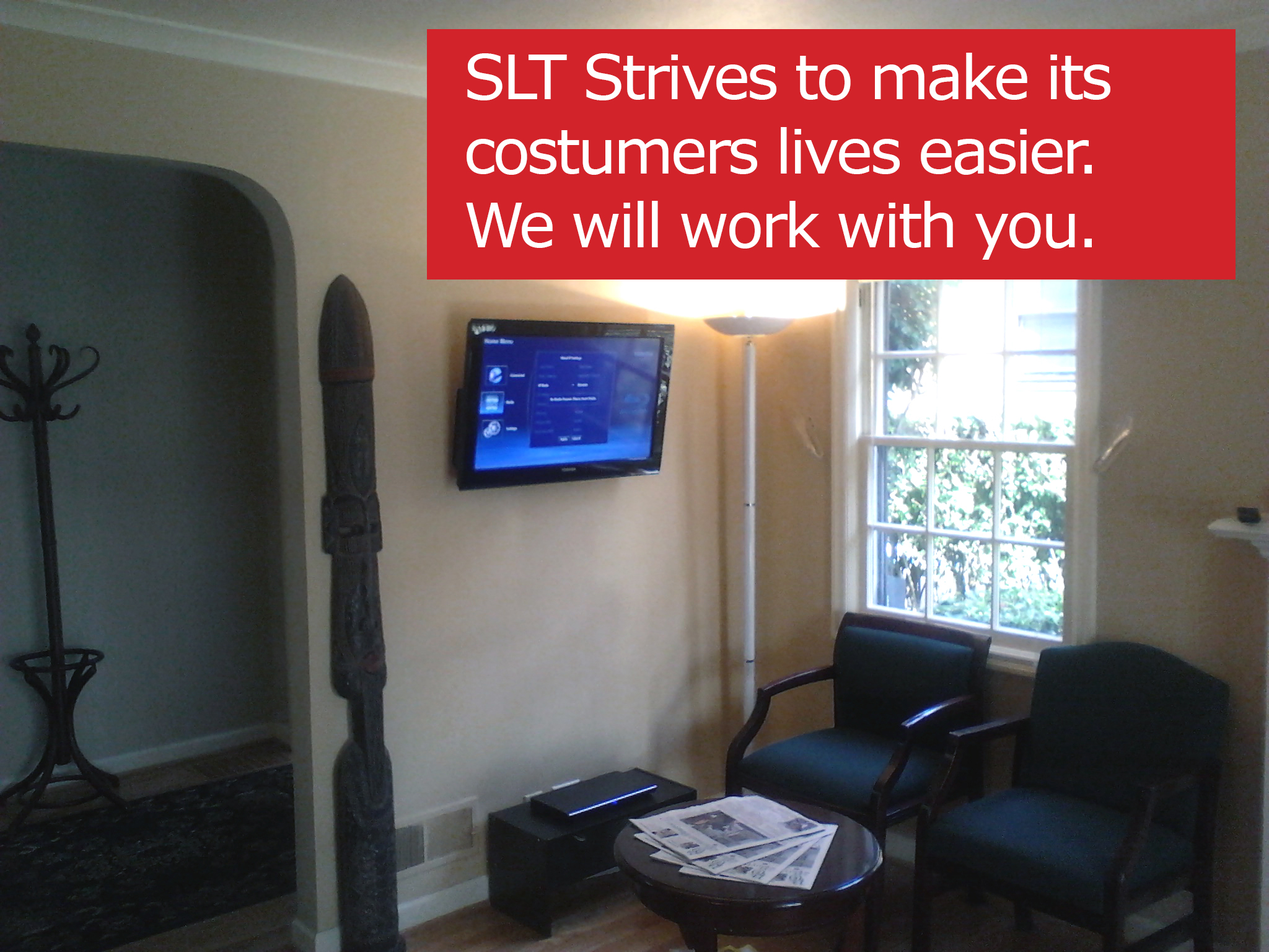
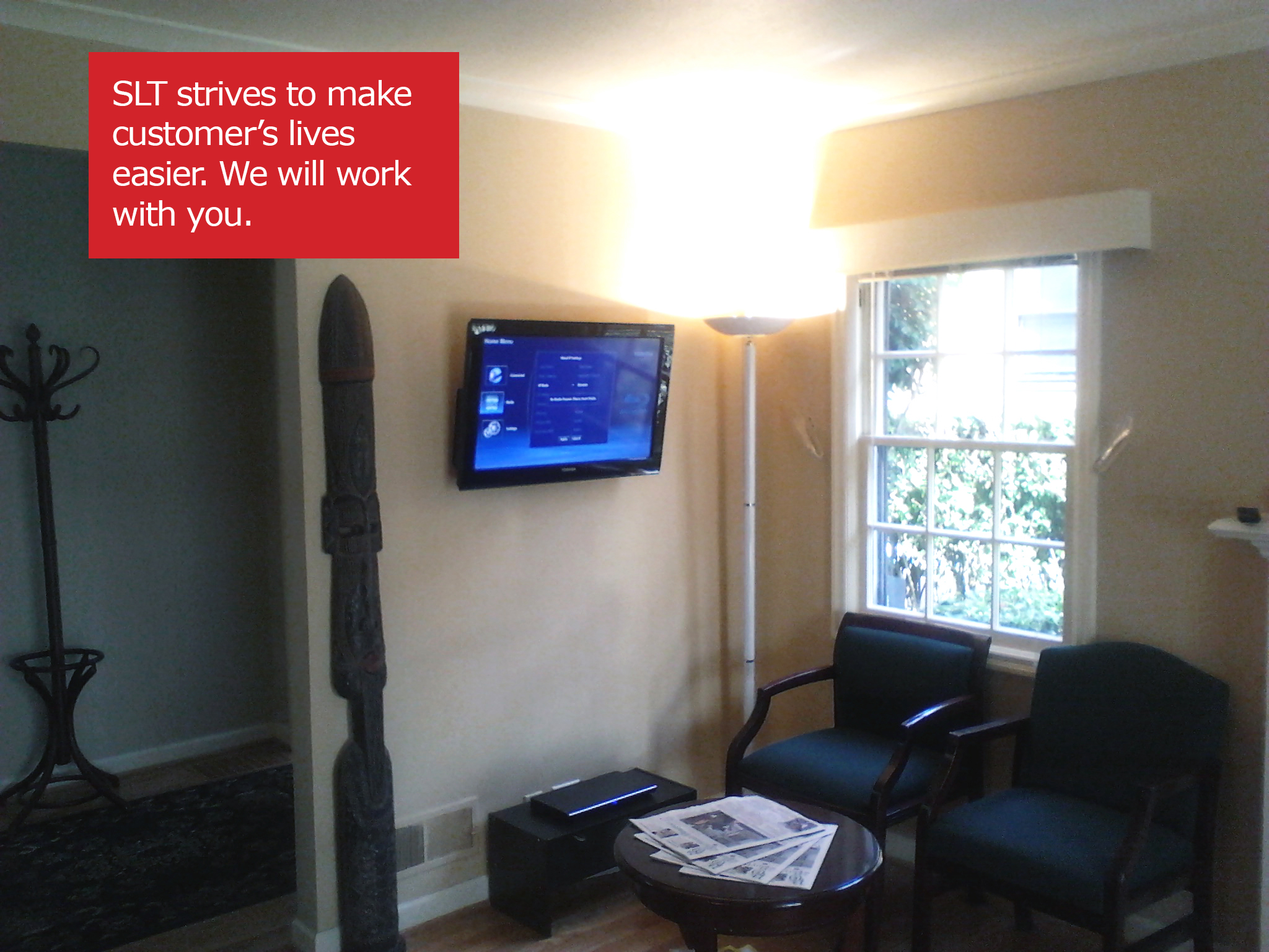
margins and picture update

Changed region(s): [[0.0625, 0.0312, 1.0, 0.3125]]

diff --git a/styles/style.css b/styles/style.css
@@ -38,7 +38,7 @@ H3 {
 	font-size: 2.15em;
 	line-height: 1.36em;
 	color: #d2232a;
-	letter-spacing: .07em;
+	letter-spacing: .04em;
 	}
 
 H4 {
@@ -891,14 +891,14 @@ a.nav:active {text-decoration:none;}
 	margin-left: 40px;
 	color: white;
 	
-	letter-spacing: .05em;
+	letter-spacing: .07em;
 	}
 
 
 
 
 .pullquote h3{
-	line-height: 1.25em;
+	
 	padding-left: 10px;
 	}
 
@@ -1057,7 +1057,7 @@ a.button:hover {
 		font-family: "depot-new-condensed-web",sans-serif;
 		font-size: 1.75em;
 		font-weight: 400;
-		letter-spacing: 0.07em;
+		letter-spacing: 0.03em;
 		line-height: 1.36em;
 		text-decoration: none;
 		}
@@ -1298,6 +1298,13 @@ a.button:hover {
 			width: 100%;
 		}
 		
+		.h3Margin{
+  
+  
+  margin-left: .2%;
+  
+  }
+
 		
 		#mobile_paragraph{
 		display:block;
@@ -1320,13 +1327,14 @@ a.button:hover {
 			letter-spacing: 0.05em;
 			margin-left: -40px;
 			font-size: 2.7em;
+			background-color: transparent;
 		}
 		H3 {
 			color: #D2232A;
 			font-family: "depot-new-condensed-web",sans-serif;
 			font-size: 1.75em;
 			font-weight: 400;
-			letter-spacing: 0.05em;
+			letter-spacing: 0.02em;
 			line-height: 1.36em;
 			text-decoration: none;
 			margin-left: -40px;
@@ -1347,9 +1355,12 @@ a.button:hover {
 			margin-left: 55px;
 			float: left;
 			}
+		
+		
+		/*who we are*/
 			
 		#whoText{
-			margin-left: 0px;
+			margin-left: 4%;
 			width: 250px;		
 			}
 			
@@ -1431,7 +1442,15 @@ a.nav:hover {text-decoration:none; padding-bottom: 0px; border-bottom:1px solid 
 a.nav:active {text-decoration:none;}
 
 /*testimonials*/
+  .h3Margin{
   
+  
+  margin-left: .2%;
+  
+  }
+
+  
+    
 #mobile_paragraph{
 	display:block;
 	width: 90%;
@@ -1503,6 +1522,8 @@ h1 {
     letter-spacing: 0.05em;
     padding-top: 10px;
     font-size: 2.5em;
+    background-color: transparent;
+
 	}
 	
 H3 {
@@ -1513,6 +1534,15 @@ H3 {
     letter-spacing: 0.05em;
     line-height: 1.36em;
     text-decoration: none;
+	}
+	
+	
+	
+	#mobile_paragraph h3{
+	
+	margin: o auto;
+	
+	
 	}
 
 #homeWrap h3{
@@ -1546,7 +1576,7 @@ H3 {
 	}
 
 #whoIntroWrap{
-	padding: 20px 10px 20px 10px;
+	padding: 10px 10px 20px 20px;
 	}
 
 #whoText h3{

diff --git a/testimonials.html b/testimonials.html
@@ -48,7 +48,7 @@
 				
 				
 				<div id="content_testimonials">
-				<h1>What our customers are saying</h1>
+				<h1>WHAT OUR CUSTOMERS ARE SAYING</h1>
 				<img src="images/quote_mark.png" class="quote"/>
 			
 		
@@ -123,7 +123,7 @@
 					<h5>-Philip & Lilia</h5></p>
 	
 					</div>
-<div id="mobile_paragraph"><h3>All of our referrals</h3>
+<div id="mobile_paragraph"><h3 class="h3Margin">All of our referrals</h3>
 			</br><p>My husband and I are seniors, in our 50's and 60's. We watch the local channels, for News, and  an occasional movie. My 82 			year old mama lives with us, and she loves her Latino programs, All the Documentary, Discovery and History channels. 				<p>Comcast kept going up in price, and not offering more channels.  My mother had Dish Network when she live in Idaho. We 				called Mr. Shukree, he came out the next day and gave us information on Dish. He was patient and kind, when it came to   
 			
 			
@@ -141,7 +141,7 @@
 <div class="testimonialColumns clearfix">
 	
 	<div class="column1" id="two">
-		<h3>Cleanest Install</h3>
+		<h3 class="h3Margin">Cleanest Install</h3>
 			</br>
 			<p>The technician that SLT sent out to my residence was competent and professional. He worked with us to find the best package to fit our unique situation and <b><i>he did the cleanest install job of any installer Ive worked with.</b></i></br></br>
 <h5>-Mark Lofdahl </br> Antelope, OR</h5></p>			</div>
@@ -155,7 +155,7 @@
 	
 	
 				<div id="three" class="column1">
-				<h3>At my convenience</h3>
+				<h3 class="h3Margin">At my convenience</h3>
 				</br>
 				<p>My job schedule is really hectic and the only time I could be home for the install was after 8 pm.  Most of the other companies I spoke with could not accomodate me.  When I called SLT Telecom to set up my install time,<b><i> they were happy to come at my convenience</i></b>.  The installer was knowledgeable and professional and stayed with me until I fully understood my equipment.  I have already told my family and co-workers about SLT.</br></br>
 <h5>-Penny Barton </br>Lake Oswego, OR</h5></p> 				</div>
